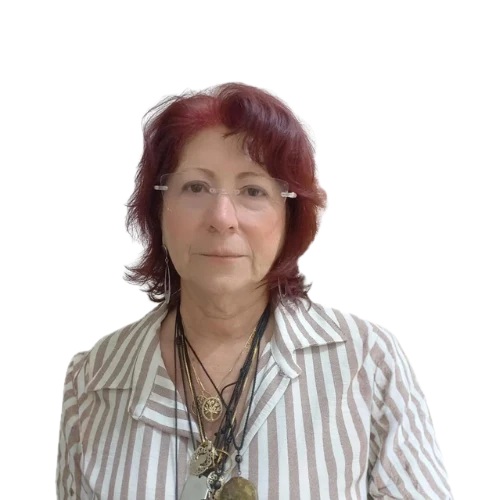
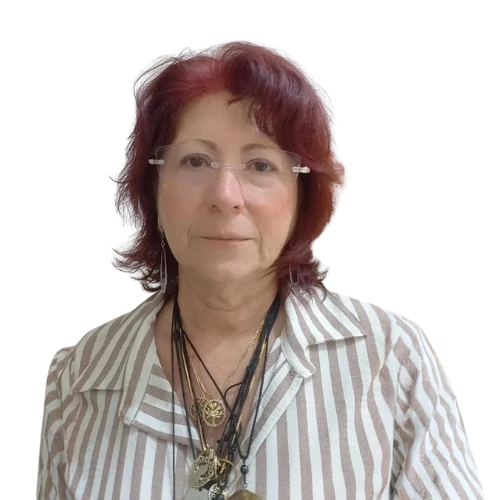
Site: nova foto da Dra. Valéria Martins (fundo transparente) e enquadramento ajustado

diff --git a/index.html b/index.html
@@ -575,7 +575,7 @@
   .foto-palestrante img[src*="zeno-castilho"]{ transform:scale(1.65); transform-origin:58% 32%; }
   .foto-palestrante img[src*="anilson-martins"]{ transform:scale(1.45); transform-origin:19% 37%; }
   .foto-palestrante img[src*="lourival"]{ transform:scale(1.45); transform-origin:60% 68%; }
-  .foto-palestrante img[src*="valeria-martins"]{ transform:scale(1.2); transform-origin:24% 77%; }
+  .foto-palestrante img[src*="valeria-martins"]{ transform:scale(1.1); transform-origin:28% 49%; }
   .foto-placeholder{ display:flex; align-items:center; justify-content:center; }
   .foto-placeholder svg{ width:54%; height:54%; color:rgba(255,255,255,0.32); }
   .btn-curriculo{
